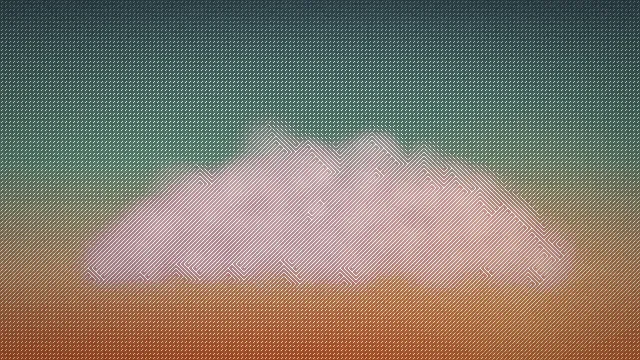
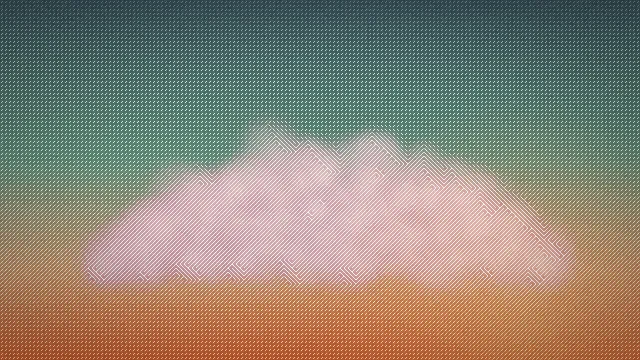
Lighten the darkening around glyphs in presets to -0.1 and brighten ascii-surround glyphs to match

diff --git a/src/engine/params.ts b/src/engine/params.ts
@@ -163,23 +163,23 @@ export const PRESETS: Record<string, { description: string; params: Partial<Para
     params: { style: 'characters', cellSize: 14, threshold: 0.32, bgBlur: 3, bgOpacity: 1, haloBlur: 9, bloom: 0.6, vignette: 0.1 },
   },
   'sharp-ascii': {
-    description: 'Glowing ASCII on the highlights of the sharp photo, dimmed only around the glyphs',
-    params: { style: 'characters', cellSize: 14, threshold: 0.32, bgBlur: 0, bgOpacity: 1, haloTone: -0.2, bloom: 0.6, vignette: 0.1 },
+    description: 'Glowing ASCII on the highlights of the sharp photo, slightly dimmed around the glyphs',
+    params: { style: 'characters', cellSize: 14, threshold: 0.32, bgBlur: 0, bgOpacity: 1, haloTone: -0.1, bloom: 0.6, vignette: 0.1 },
   },
   cross: {
     description: 'Cross-stitch "+" and "×" marks that grow with brightness',
-    params: { style: 'cross', cellSize: 16, threshold: 0.28, strokeWidth: 0.1, bgBlur: 0, bgOpacity: 1, haloBlur: 14, haloTone: -0.2, glyphTint: 0.3, glyphBoost: 1.5, bloom: 0.6 },
+    params: { style: 'cross', cellSize: 16, threshold: 0.28, strokeWidth: 0.1, bgBlur: 0, bgOpacity: 1, haloBlur: 14, haloTone: -0.1, glyphTint: 0.3, glyphBoost: 1.5, bloom: 0.6 },
   },
   diagonal: {
     description: 'Hatched slashes that follow the image edges, warm film look',
     params: {
       style: 'diagonal', cellSize: 12, threshold: 0.25, strokeWidth: 0.09, diagonalMode: 'edge', bgBlur: 0,
-      bgOpacity: 1, haloBlur: 14, haloTone: -0.2, glyphTint: 0.35, glyphBoost: 1.5, bloom: 0.4, vignette: 0.25, grain: 0.06,
+      bgOpacity: 1, haloBlur: 14, haloTone: -0.1, glyphTint: 0.35, glyphBoost: 1.5, bloom: 0.4, vignette: 0.25, grain: 0.06,
     },
   },
   dots: {
     description: 'Halftone dots that scale with brightness',
-    params: { style: 'dots', cellSize: 12, threshold: 0.12, bgBlur: 0, bgOpacity: 1, haloBlur: 14, haloTone: -0.2, glyphTint: 0.2, bloom: 0.3 },
+    params: { style: 'dots', cellSize: 12, threshold: 0.12, bgBlur: 0, bgOpacity: 1, haloBlur: 14, haloTone: -0.1, glyphTint: 0.2, bloom: 0.3 },
   },
   'full-ascii': {
     description: 'Classic ASCII art: every cell becomes a character, in the source colors on black',
@@ -216,7 +216,7 @@ export const PRESETS: Record<string, { description: string; params: Partial<Para
     description: 'Everything but the brightest subject becomes ASCII; the subject stays a photo',
     params: {
       style: 'characters', highlightMode: 'relative', threshold: 0, thresholdHigh: 0.8, thresholdSoftness: 0.15, bgBlur: 0, bgOpacity: 1,
-      haloTone: -1, haloBlur: 0, haloRadius: 0.6, glyphTint: 0.1, bloom: 0.3, vignette: 0, grain: 0,
+      haloTone: -0.1, haloBlur: 0, haloRadius: 0.6, glyphTint: 0.35, glyphBoost: 1.5, bloom: 0.3, vignette: 0, grain: 0,
     },
   },
   matrix: {

diff --git a/README.md b/README.md
@@ -81,7 +81,7 @@ Settings and saved presets are kept in the browser. Undo (`Ctrl+Z`) covers every
 | Preset | Look |
 | --- | --- |
 | `soft-ascii` | ASCII on the highlights over a softened photo |
-| `sharp-ascii` | ASCII over the sharp photo, darkened around the glyphs |
+| `sharp-ascii` | ASCII over the sharp photo, slightly darkened around the glyphs |
 | `cross`, `diagonal`, `dots` | The shape styles over the photo |
 | `full-ascii`, `full-cross` | Every cell becomes a glyph, on black |
 | `ascii-surround` | ASCII everywhere except the brightest subject, which stays a photo |
